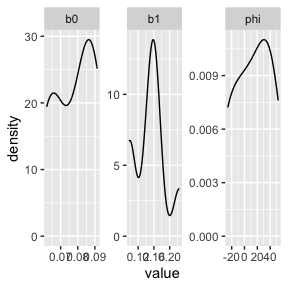
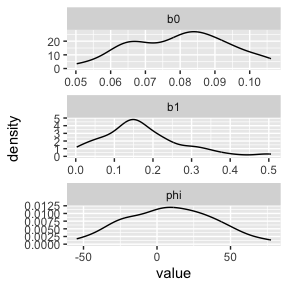
Deploying to gh-pages from @ IsaacStopard/RSVsim@1a7dabe5b080b432f4fa182b48066f520331004b 🚀

diff --git a/articles/Calibration.html b/articles/Calibration.html
@@ -105,18 +105,8 @@ modelling.” Epidemics 29 (2019): 100368 <a href="https://doi.org/10.1016/j.epi
 <span></span>
 <span><span class="va">fitted_parameter_names</span> <span class="op">&lt;-</span> <span class="fu"><a href="https://rdrr.io/r/base/c.html" class="external-link">c</a></span><span class="op">(</span><span class="st">"b0"</span>, <span class="st">"b1"</span>, <span class="st">"phi"</span><span class="op">)</span></span>
 <span></span>
-<span><span class="va">fixed_parameter_list</span> <span class="op">&lt;-</span> <span class="fu"><a href="../reference/RSVsim_fixed_parameters.html">RSVsim_fixed_parameters</a></span><span class="op">(</span>fitted_parameter_names <span class="op">=</span> <span class="va">fitted_parameter_names</span>,</span>
-<span>                                                data <span class="op">=</span> <span class="fu"><a href="https://rdrr.io/r/base/unique.html" class="external-link">unique</a></span><span class="op">(</span><span class="va">out</span><span class="op">[</span>,<span class="fu"><a href="https://rdrr.io/r/base/c.html" class="external-link">c</a></span><span class="op">(</span><span class="st">"age_chr"</span>, <span class="st">"age"</span><span class="op">)</span><span class="op">]</span><span class="op">)</span></span>
-<span>                                                <span class="op">)</span></span>
-<span><span class="co">#&gt; Warning in RSVsim_contact_matrix(country = country, age.limits = age.limits):</span></span>
-<span><span class="co">#&gt; polymod age groupings only go up to 75. Age limits above this have therefore</span></span>
-<span><span class="co">#&gt; been omitted.</span></span>
-<span><span class="co">#&gt; Warning in RSVsim_contact_matrix(country = country, age.limits = age.limits): Not all age.limits are integers.</span></span>
-<span><span class="co">#&gt;             The contact matrix was calculated for the age groups given by the integers</span></span>
-<span><span class="co">#&gt;             and divided uniformly within the smaller age groups.</span></span>
-<span><span class="co">#&gt;             A warning from socialmixr about linearly estimating the integer age groups within the 5-year age bands will also appear.</span></span>
-<span><span class="co">#&gt; Warning in pop_age(survey.pop, part.age.group.present, ...): Not all age groups represented in population data (5-year age band).</span></span>
-<span><span class="co">#&gt;   Linearly estimating age group sizes from the 5-year bands.</span></span></code></pre></div>
+<span><span class="va">fixed_parameter_list</span> <span class="op">&lt;-</span> <span class="fu"><a href="../reference/RSVsim_parameters.html">RSVsim_parameters</a></span><span class="op">(</span>contact_population_list <span class="op">=</span> <span class="va">contact_population_list</span>,</span>
+<span>                                          fitted_parameter_names <span class="op">=</span> <span class="va">fitted_parameter_names</span><span class="op">)</span></span></code></pre></div>
 <p>Next, we calculate some summary statistics from the model output.
 Specifically, we calculate the age-specific peak time of incidence
 infections, the amplitude of incidence (difference between maximum and
@@ -209,7 +199,7 @@ model.</p>
 <span><span class="co">##### running the ABC-rejection algorithm #####</span></span>
 <span><span class="co">###############################################</span></span>
 <span></span>
-<span><span class="va">nparticles</span> <span class="op">=</span> <span class="fl">8</span></span>
+<span><span class="va">nparticles</span> <span class="op">=</span> <span class="fl">80</span></span>
 <span></span>
 <span><span class="va">used_seeds_all</span> <span class="op">&lt;-</span> <span class="fu"><a href="https://rdrr.io/r/base/seq.html" class="external-link">seq</a></span><span class="op">(</span><span class="fl">1</span>, <span class="va">nparticles</span><span class="op">)</span></span>
 <span></span>
@@ -233,19 +223,19 @@ model.</p>
 <code class="sourceCode R"><span></span>
 <span><span class="fu"><a href="https://ggplot2.tidyverse.org/reference/ggplot.html" class="external-link">ggplot</a></span><span class="op">(</span>data <span class="op">=</span> <span class="fu"><a href="https://rdrr.io/r/base/data.frame.html" class="external-link">data.frame</a></span><span class="op">(</span><span class="st">'b0'</span> <span class="op">=</span> <span class="va">fit</span><span class="op">[</span>,<span class="st">'b0'</span><span class="op">]</span>, <span class="st">'b1'</span> <span class="op">=</span> <span class="va">fit</span><span class="op">[</span>,<span class="st">'b1'</span><span class="op">]</span>, <span class="st">'phi'</span> <span class="op">=</span> <span class="va">fit</span><span class="op">[</span>,<span class="st">'phi'</span><span class="op">]</span><span class="op">)</span> <span class="op">|&gt;</span> <span class="fu">tidyr</span><span class="fu">::</span><span class="fu"><a href="https://tidyr.tidyverse.org/reference/pivot_longer.html" class="external-link">pivot_longer</a></span><span class="op">(</span>cols <span class="op">=</span> <span class="fu"><a href="https://rdrr.io/r/base/c.html" class="external-link">c</a></span><span class="op">(</span><span class="st">"b0"</span>, <span class="st">"b1"</span>, <span class="st">"phi"</span><span class="op">)</span><span class="op">)</span><span class="op">)</span> <span class="op">+</span></span>
 <span>  <span class="fu"><a href="https://ggplot2.tidyverse.org/reference/geom_density.html" class="external-link">geom_density</a></span><span class="op">(</span><span class="fu"><a href="https://ggplot2.tidyverse.org/reference/aes.html" class="external-link">aes</a></span><span class="op">(</span>x <span class="op">=</span> <span class="va">value</span><span class="op">)</span><span class="op">)</span> <span class="op">+</span></span>
-<span>  <span class="fu"><a href="https://ggplot2.tidyverse.org/reference/facet_wrap.html" class="external-link">facet_wrap</a></span><span class="op">(</span><span class="op">~</span><span class="va">name</span>, scales <span class="op">=</span> <span class="st">"free"</span><span class="op">)</span></span></code></pre></div>
+<span>  <span class="fu"><a href="https://ggplot2.tidyverse.org/reference/facet_wrap.html" class="external-link">facet_wrap</a></span><span class="op">(</span><span class="op">~</span><span class="va">name</span>, scales <span class="op">=</span> <span class="st">"free"</span>, nrow <span class="op">=</span> <span class="fl">3</span><span class="op">)</span></span></code></pre></div>
 <p><img src="Calibration_files/figure-html/abc_plots-1.png" width="700"></p>
 <div class="sourceCode" id="cb5"><pre class="downlit sourceCode r">
 <code class="sourceCode R"><span></span>
 <span><span class="fu"><a href="https://rdrr.io/r/stats/quantile.html" class="external-link">quantile</a></span><span class="op">(</span><span class="va">fit</span><span class="op">[</span>,<span class="st">'b0'</span><span class="op">]</span>, probs <span class="op">=</span> <span class="fu"><a href="https://rdrr.io/r/base/c.html" class="external-link">c</a></span><span class="op">(</span><span class="fl">0.025</span>, <span class="fl">0.5</span>, <span class="fl">0.975</span><span class="op">)</span><span class="op">)</span></span>
 <span><span class="co">#&gt;       2.5%        50%      97.5% </span></span>
-<span><span class="co">#&gt; 0.06218421 0.08128269 0.09100372</span></span>
+<span><span class="co">#&gt; 0.05368404 0.08147523 0.10458740</span></span>
 <span><span class="fu"><a href="https://rdrr.io/r/stats/quantile.html" class="external-link">quantile</a></span><span class="op">(</span><span class="va">fit</span><span class="op">[</span>,<span class="st">'b1'</span><span class="op">]</span>, probs <span class="op">=</span> <span class="fu"><a href="https://rdrr.io/r/base/c.html" class="external-link">c</a></span><span class="op">(</span><span class="fl">0.025</span>, <span class="fl">0.5</span>, <span class="fl">0.975</span><span class="op">)</span><span class="op">)</span></span>
-<span><span class="co">#&gt;       2.5%        50%      97.5% </span></span>
-<span><span class="co">#&gt; 0.09747937 0.15627032 0.21508463</span></span>
+<span><span class="co">#&gt;        2.5%         50%       97.5% </span></span>
+<span><span class="co">#&gt; 0.008292952 0.154739980 0.414731968</span></span>
 <span><span class="fu"><a href="https://rdrr.io/r/stats/quantile.html" class="external-link">quantile</a></span><span class="op">(</span><span class="va">fit</span><span class="op">[</span>,<span class="st">'phi'</span><span class="op">]</span>, probs <span class="op">=</span> <span class="fu"><a href="https://rdrr.io/r/base/c.html" class="external-link">c</a></span><span class="op">(</span><span class="fl">0.025</span>, <span class="fl">0.5</span>, <span class="fl">0.975</span><span class="op">)</span><span class="op">)</span></span>
-<span><span class="co">#&gt;      2.5%       50%     97.5% </span></span>
-<span><span class="co">#&gt; -25.75873  14.97379  50.19652</span></span></code></pre></div>
+<span><span class="co">#&gt;       2.5%        50%      97.5% </span></span>
+<span><span class="co">#&gt; -47.266727   7.129349  62.568962</span></span></code></pre></div>
   </main>
 </div>
 

diff --git a/reference/RSVsim_contact_matrix.html b/reference/RSVsim_contact_matrix.html
@@ -54,7 +54,7 @@ into smaller age groupings by dividing them uniformly.</p>
     <h2 id="ref-usage">Usage<a class="anchor" aria-label="anchor" href="#ref-usage"></a></h2>
     <div class="sourceCode"><pre class="sourceCode r"><code><span><span class="fu">RSVsim_contact_matrix</span><span class="op">(</span></span>
 <span>  country <span class="op">=</span> <span class="st">"United Kingdom"</span>,</span>
-<span>  age.limits <span class="op">=</span> <span class="fu"><a href="https://rdrr.io/r/base/c.html" class="external-link">c</a></span><span class="op">(</span><span class="fu"><a href="https://rdrr.io/r/base/seq.html" class="external-link">seq</a></span><span class="op">(</span><span class="fl">0</span>, <span class="fl">5</span>, <span class="fl">1</span><span class="op">/</span><span class="fl">12</span><span class="op">)</span>, <span class="fu"><a href="https://rdrr.io/r/base/seq.html" class="external-link">seq</a></span><span class="op">(</span><span class="fl">10</span>, <span class="fl">70</span>, <span class="fl">5</span><span class="op">)</span><span class="op">)</span></span>
+<span>  age.limits <span class="op">=</span> <span class="fu"><a href="https://rdrr.io/r/base/c.html" class="external-link">c</a></span><span class="op">(</span><span class="fu"><a href="https://rdrr.io/r/base/seq.html" class="external-link">seq</a></span><span class="op">(</span><span class="fl">0</span>, <span class="fl">5</span>, <span class="fl">2</span><span class="op">/</span><span class="fl">12</span><span class="op">)</span>, <span class="fu"><a href="https://rdrr.io/r/base/seq.html" class="external-link">seq</a></span><span class="op">(</span><span class="fl">10</span>, <span class="fl">70</span>, <span class="fl">5</span><span class="op">)</span><span class="op">)</span></span>
 <span><span class="op">)</span></span></code></pre></div>
     </div>
 

diff --git a/reference/RSVsim_ABC_rejection.html b/reference/RSVsim_ABC_rejection.html
@@ -51,6 +51,7 @@
 <span>  <span class="va">prior_fun</span>,</span>
 <span>  <span class="va">n_prior_attempts</span>,</span>
 <span>  <span class="va">nparticles</span>,</span>
+<span>  <span class="va">used_seeds_all</span>,</span>
 <span>  ncores <span class="op">=</span> <span class="fl">1</span>,</span>
 <span>  <span class="va">fitted_parameter_names</span>,</span>
 <span>  <span class="va">fixed_parameter_list</span>,</span>
@@ -90,7 +91,11 @@
 
 
 <dt id="arg-nparticles">nparticles<a class="anchor" aria-label="anchor" href="#arg-nparticles"></a></dt>
-<dd><p>Number of samples from the approximate posterior.</p></dd>
+<dd><p>Integer. Number of samples from the approximate posterior.</p></dd>
+
+
+<dt id="arg-used-seeds-all">used_seeds_all<a class="anchor" aria-label="anchor" href="#arg-used-seeds-all"></a></dt>
+<dd><p>Vector. Seeds used when generating the prior samples for each accepted particle.</p></dd>
 
 
 <dt id="arg-ncores">ncores<a class="anchor" aria-label="anchor" href="#arg-ncores"></a></dt>

diff --git a/reference/index.html b/reference/index.html
@@ -84,12 +84,6 @@
         <dd>Create contact matrix for RSVsim</dd>
       </dl><dl><dt>
 
-          <code><a href="RSVsim_fixed_parameters.html">RSVsim_fixed_parameters()</a></code>
-
-        </dt>
-        <dd>Get fixed parameters for the RSVsim_calibrate function from the data</dd>
-      </dl><dl><dt>
-
           <code><a href="RSVsim_parameters.html">RSVsim_parameters()</a></code>
 
         </dt>
